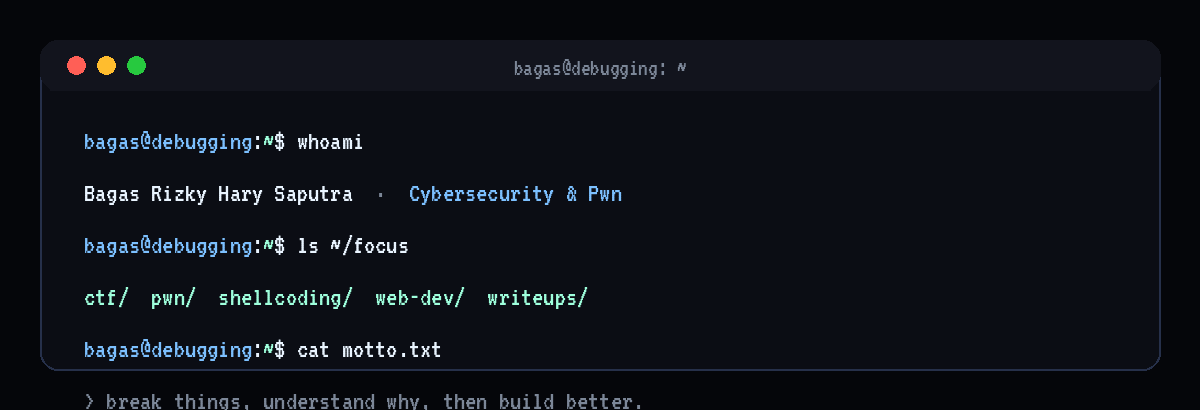
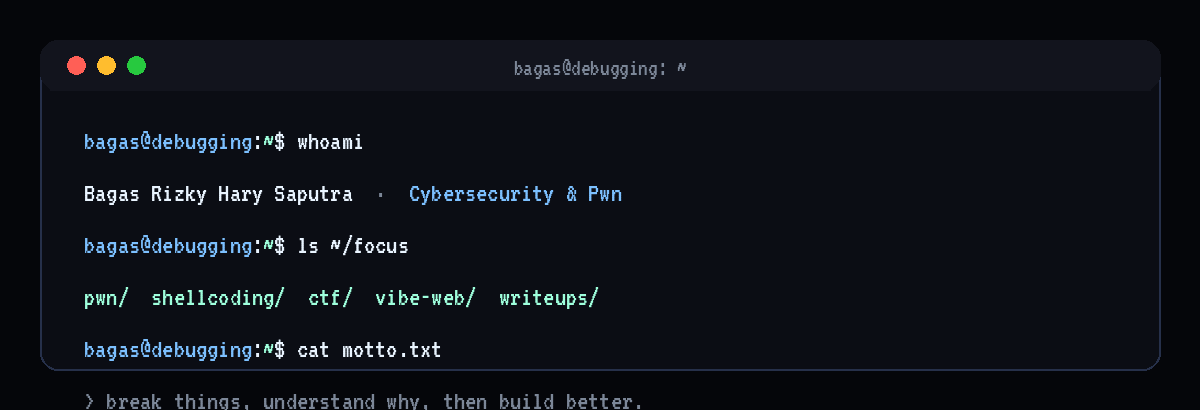
Narrow focus badge to PWN & vibe-coded web
Focus is PWN and vibe-coded web, not rev/web-general. Update the FOCUS
badge and the banner's `ls ~/focus` line to match.

Changed region(s): [[0.1233, 0.7024, 0.4933, 0.761], [0.0617, 0.7024, 0.0925, 0.761]]

diff --git a/README.md b/README.md
@@ -12,7 +12,7 @@
 <a href="https://bagasrizkyharysaputra.vercel.app/#/writeups">
   <img alt="Writeups" src="https://img.shields.io/badge/WRITEUPS-4_notes-05060A?style=for-the-badge&labelColor=0b0d14&logo=hackmd&logoColor=7CC0FF" />
 </a>
-<img alt="Focus" src="https://img.shields.io/badge/FOCUS-PWN_%C2%B7_REV_%C2%B7_WEB-05060A?style=for-the-badge&labelColor=0b0d14&logo=hackthebox&logoColor=9EFFDC" />
+<img alt="Focus" src="https://img.shields.io/badge/FOCUS-PWN_%C2%B7_VIBECODE_WEB-05060A?style=for-the-badge&labelColor=0b0d14&logo=hackthebox&logoColor=9EFFDC" />
 
 <img src="assets/skull.png" alt="ASCII skull — the mascot from my portfolio's Home screen" width="340" />
 
